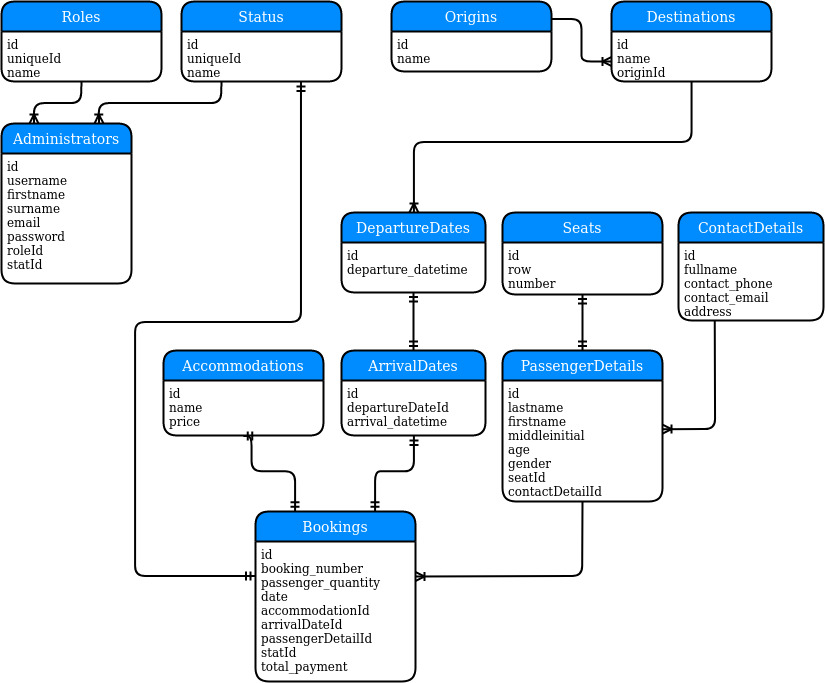
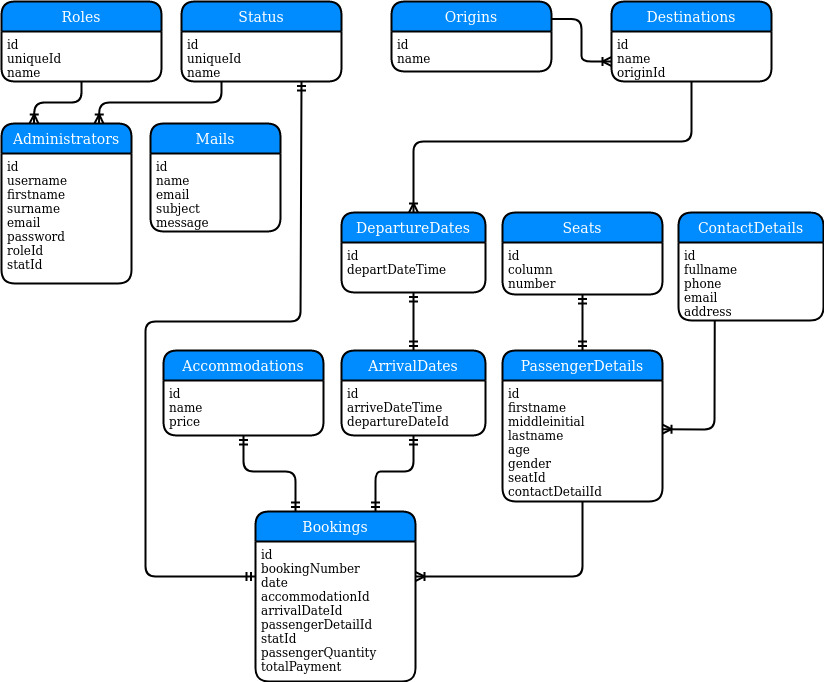
updated ERD and finished creating all data models

diff --git a/models/Booking.js b/models/Booking.js
@@ -1,0 +1,43 @@
+const mongoose = require('mongoose');
+const Schema = mongoose.Schema;
+const bookingSchema = new Schema(
+    {
+        bookingNumber: {
+            type: String,
+            required: true
+        },
+        date: {
+            type: Date,
+            required: true
+        },        
+        accommodationId: {
+            type: String,
+            required: true
+        },
+        arrivalDateId: {
+            type: String,
+            required: true
+        },
+        passengerDetailId: {
+            type: String,
+            required: true
+        },
+        statId: {
+            type: String,
+            required: true
+        },
+        passengerQuantity: {
+            type: Number,
+            required: true
+        },
+        totalPayment: {
+            type: Number,
+            required: true
+        }
+    },
+    {
+        timestamps: true
+    }
+);
+
+module.exports = mongoose.model('Booking', bookingSchema);

diff --git a/models/PassengerDetail.js b/models/PassengerDetail.js
@@ -1,0 +1,36 @@
+const mongoose = require('mongoose');
+const Schema = mongoose.Schema;
+const passengerDetailSchema = new Schema(
+    {
+        firstname: {
+            type: String,
+            required: true
+        },
+        middleinitial: String,
+        lastname: {
+            type: String,
+            required: true
+        },
+        age: {
+            type: Number,
+            required: true
+        },
+        gender: {
+            type: String,
+            required: true
+        },        
+        seatId: {
+            type: String,
+            required: true
+        },
+        contactDetailId: {
+            type: String,
+            required: true
+        }
+    },
+    {
+        timestamps: true
+    }
+);
+
+module.exports = mongoose.model('PassengerDetail', passengerDetailSchema);

diff --git a/models/ContactDetail.js b/models/ContactDetail.js
@@ -1,0 +1,27 @@
+const mongoose = require('mongoose');
+const Schema = mongoose.Schema;
+const contactDetailSchema = new Schema(
+    {
+        fullname: {
+            type: String,
+            required: true
+        },
+        phone: {
+            type: String,
+            required: true
+        },
+        email: {
+            type: String,
+            required: true
+        },
+        address: {
+            type: String,
+            required: true
+        }
+    },
+    {
+        timestamps: true
+    }
+);
+
+module.exports = mongoose.model('ContactDetail', contactDetailSchema);

diff --git a/models/Mail.js b/models/Mail.js
@@ -1,0 +1,24 @@
+const mongoose = require('mongoose');
+const Schema = mongoose.Schema;
+const mailSchema = new Schema(
+    {
+        name: {
+            type: String,
+            required: true
+        },
+        email: {
+            type: String,
+            required: true
+        },
+        subject: String,
+        message: {
+            type: String,
+            required: true
+        }
+    },
+    {
+        timestamps: true
+    }
+);
+
+module.exports = mongoose.model('Mail', mailSchema);

diff --git a/models/Accommodation.js b/models/Accommodation.js
@@ -1,0 +1,19 @@
+const mongoose = require('mongoose');
+const Schema = mongoose.Schema;
+const accommodationSchema = new Schema(
+    {
+        name: {
+            type: String,
+            required: true
+        },
+        price: {
+            type: Number,
+            required: true
+        }
+    },
+    {
+        timestamps: true
+    }
+);
+
+module.exports = mongoose.model('Accommodation', accommodationSchema);

diff --git a/models/Seat.js b/models/Seat.js
@@ -1,0 +1,19 @@
+const mongoose = require('mongoose');
+const Schema = mongoose.Schema;
+const seatSchema = new Schema(
+    {
+        column: {
+            type: String,
+            required: true
+        },
+        number: {
+            type: Number,
+            required: true
+        }
+    },
+    {
+        timestamps: true
+    }
+);
+
+module.exports = mongoose.model('Seat', seatSchema);

diff --git a/models/DepartureDate.js b/models/DepartureDate.js
@@ -2,7 +2,7 @@ const mongoose = require('mongoose');
 const Schema = mongoose.Schema;
 const departureDateSchema = new Schema(
     {
-        departure_datetime: {
+        departDateTime: {
             type: Date,
             required: true
         }

diff --git a/models/ArrivalDate.js b/models/ArrivalDate.js
@@ -2,7 +2,7 @@ const mongoose = require('mongoose');
 const Schema = mongoose.Schema;
 const arrivalDateSchema = new Schema(
     {
-        arrival_datetime: {
+        arriveDateTime: {
             type: Date,
             required: true
         },
